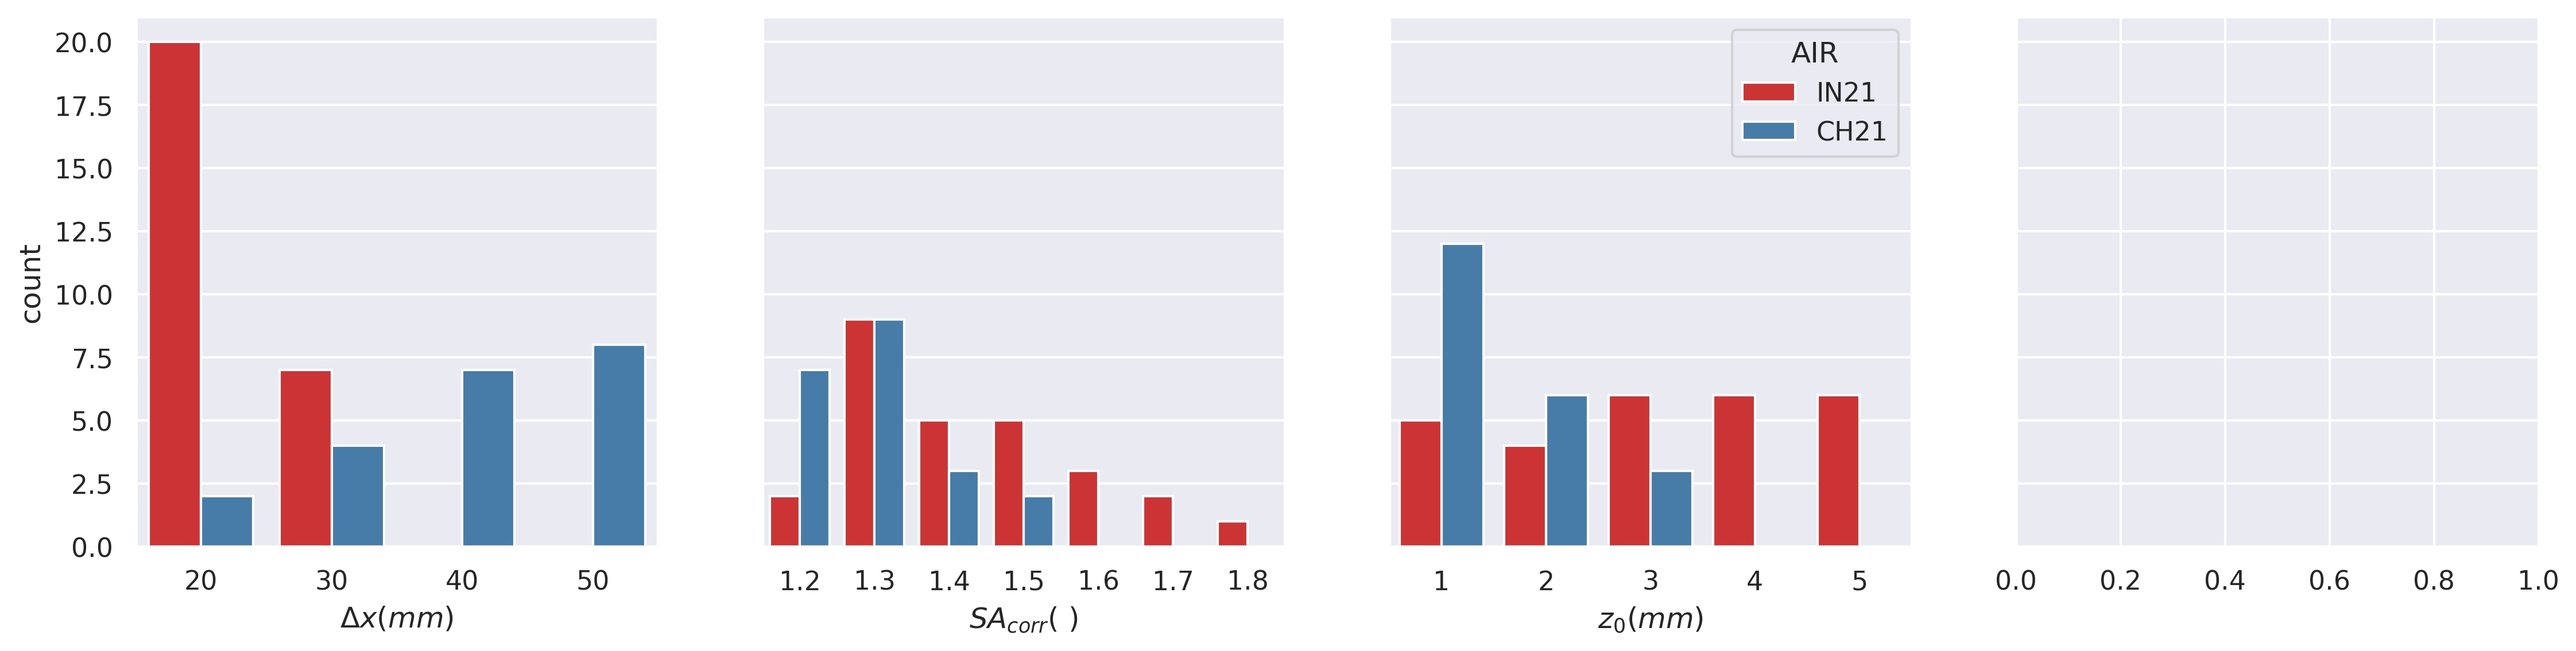
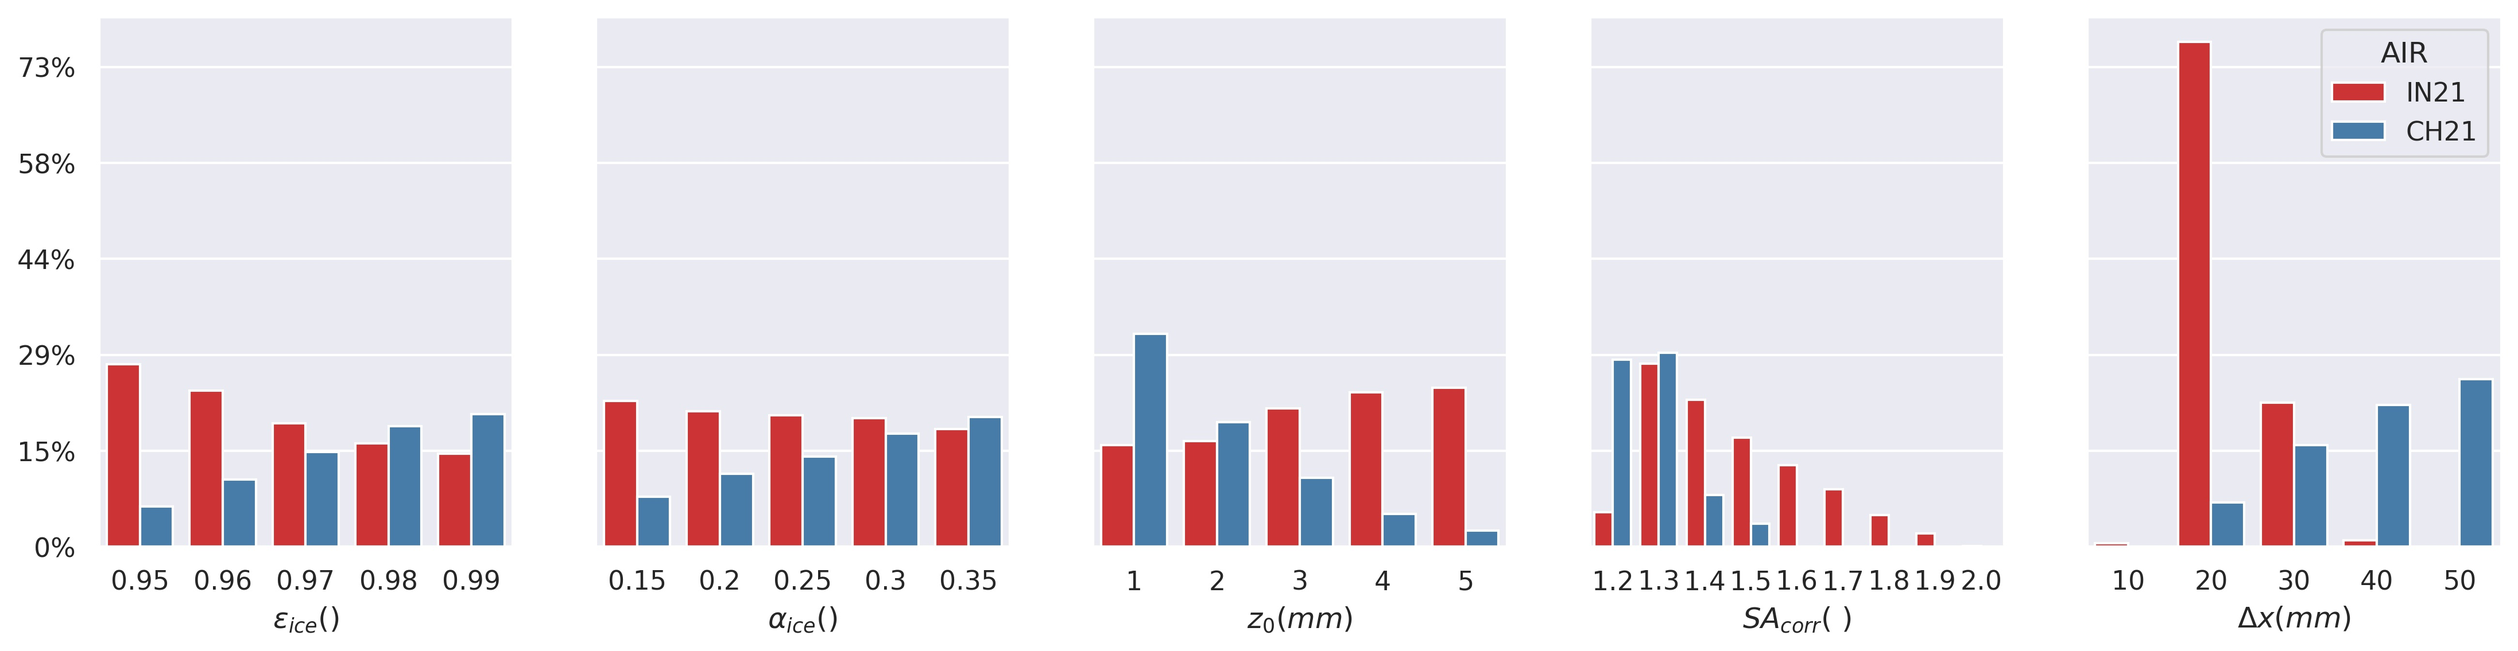
update fig

diff --git a/src/utils/sensitivity-histplot.py b/src/utils/sensitivity-histplot.py
@@ -45,7 +45,8 @@ if __name__ == "__main__":
     # locations = ["guttannen21"]
     # location = "guttannen21"
 
-    params = ['DX', 'SA_corr', 'Z']
+    params = ['IE', 'A_I', 'Z', 'SA_corr', 'DX']
+    # params = ['DX', 'SA_corr', 'Z']
     # params = ['DX', 'SA_corr']
 
     # Creating an empty Dataframe with column names only
@@ -55,7 +56,6 @@ if __name__ == "__main__":
         SITE, FOLDER = config(location)
         icestupa.read_output()
 
-        # params = ['IE', 'A_I', 'Z', 'DX']
         tuned_params = setup_params(params)
 
         # kind = 'temp'
@@ -69,7 +69,7 @@ if __name__ == "__main__":
         df['params'] = df['params'].apply(literal_eval)
 
         num_selected = int(0.1 * df.shape[0])
-        # num_selected = 10
+        # num_selected = 100
         num_total = df.shape[0]
         print()
         print("\tSelected %s out of %s" % (num_selected, num_total))
@@ -98,9 +98,8 @@ if __name__ == "__main__":
     sns.set(style="darkgrid")
 
     fig, ax = plt.subplots(
-        nrows=1, ncols=4, sharey="row", figsize=(18, 4)
+        nrows=1, ncols=len(params), sharey="row", figsize=(18, 4)
     )
-
 
     for i,param_name in enumerate(tuned_params):
         sns.countplot( x=param_name, hue ='AIR', palette="Set1", data=dfx,
@@ -116,6 +115,8 @@ if __name__ == "__main__":
             ax[i].get_legend().remove()
         else:
             ax[i].legend(loc='upper right', title = 'AIR')
+        ax[i].set_ylabel("")
+        ax[i].yaxis.set_major_formatter(mtick.PercentFormatter(num_selected))
 
 
     plt.savefig(

diff --git a/src/utils/uq_plot_full.py b/src/utils/uq_plot_full.py
@@ -22,7 +22,8 @@ from src.models.methods.metadata import get_parameter_metadata
 
 if __name__ == "__main__":
 
-    locations = ['gangles21', 'guttannen21', 'guttannen20']
+    # locations = ['gangles21', 'guttannen21', 'guttannen20']
+    locations = [ 'guttannen21']
 
     blue = "#0a4a97"
     red = "#e23028"
@@ -57,11 +58,12 @@ if __name__ == "__main__":
         evaluations = []
 
         data = un.Data()
-        # filename1 = FOLDER['sim']+ "SE_full.h5"
-        filename1 = FOLDER['sim']+ "full.h5"
+        filename1 = FOLDER['sim']+ "SE_full.h5"
+        # filename1 = FOLDER['sim']+ "full.h5"
         # filename1 = FOLDER['sim']+ "input.h5"
         # filename1 = FOLDER['sim']+ "efficiency.h5"
         data.load(filename1)
+        print(data)
 
         # survived_days = icestupa.total_hours / (24)
         if location == 'schwarzsee19':
